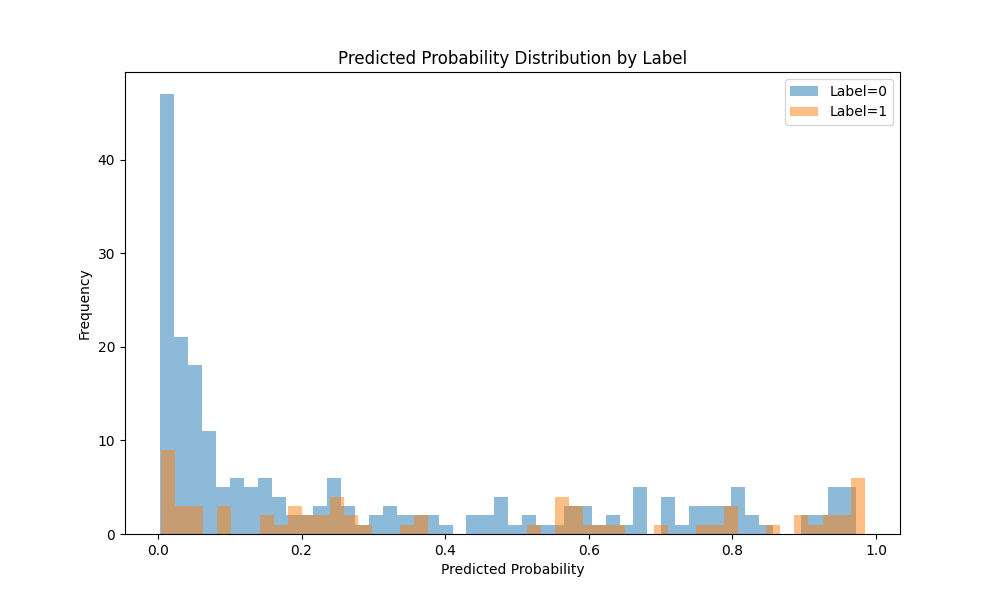
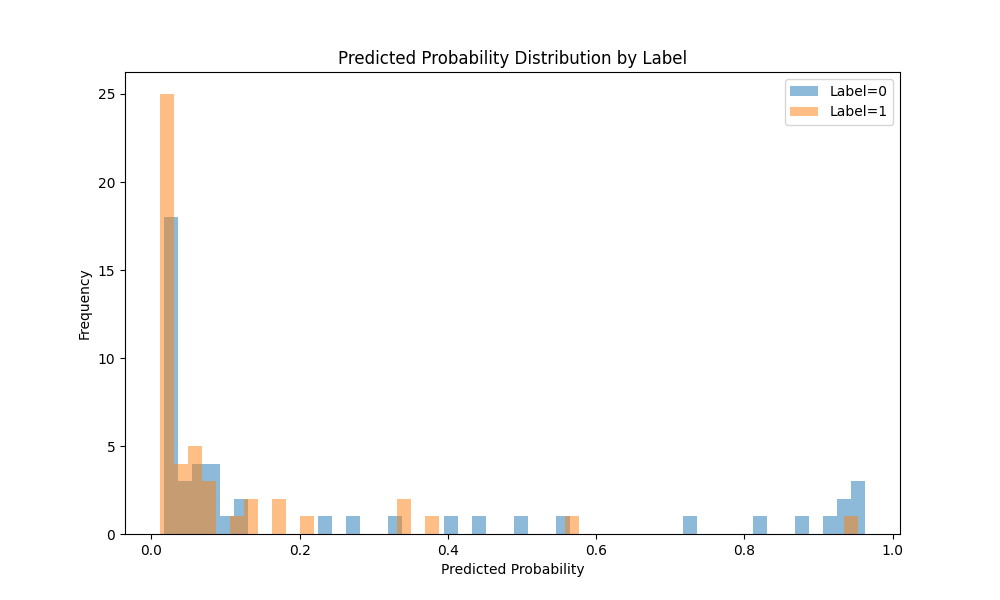
feat: one year is better, different stock needs different threshold

diff --git a/apps/cli_tool/features/modeling.py b/apps/cli_tool/features/modeling.py
@@ -12,7 +12,7 @@ from sklearn.metrics import (
 )
 
 def define_labels(data):
-    """Defines binary target labels (0: others, 1: significant rise) based on 75th percentile dynamic threshold over 5 days)"""
+    """Defines binary target labels (0: others, 1: significant rise) based on 75th percentile dynamic threshold over 3 days)"""
     print("Defining labels...")
     
     # Calculate future close price over 5 days
@@ -23,12 +23,12 @@ def define_labels(data):
     # Calculate dynamic threshold based on 75th percentile of past price changes
     # Shift Price_Change_5d by 5 days to ensure the rolling window only uses past data relative to the labeling point
     window_size = 60 # Example window size for dynamic percentiles
-    data['Upper_Bound'] = data['Price_Change_5d'].shift(5).rolling(window=window_size, closed='right').quantile(0.75)
+    data['Upper_Bound'] = data['Price_Change_5d'].shift(5).rolling(window=window_size, closed='right').quantile(0.6)
 
     # Define labels based on dynamic threshold
     data['Label'] = 0  # Default to others (combines neutral and drop)
     data.loc[data['Price_Change_5d'] >= data['Upper_Bound'], 'Label'] = 1  # Significant rise
-
+    
     # Drop rows with NaN labels
     
     data.dropna(inplace=True)
@@ -37,6 +37,7 @@ def define_labels(data):
     print(f'chg is {data["Price_Change_5d"].tail(20)}')
     print(f'label is {data["Label"].tail(20)}')
 
+    
     
     # Drop temporary columns
     data.drop(columns=['Future_Close', 'Price_Change_5d', 'Upper_Bound'], inplace=True)

diff --git a/apps/cli_tool/analyze_v2.py b/apps/cli_tool/analyze_v2.py
@@ -21,7 +21,7 @@ except ImportError:
     if not os.path.exists(DATA_DIR):
         os.makedirs(DATA_DIR)
 
-period = "2y"
+period = "1y"
 
 def get_data(ticker: str, p: Literal["6mo","1y", "2y", "5y", "10y", "ytd"]=period):
     """Fetch data using yfinance service"""
@@ -74,7 +74,6 @@ def main(ticker="SPY"):
         y_pred_probas.append(y_pred_proba_fold)
         y_tests.append(y_test)
 
-    # Evaluate with default threshold (0.5)
     # Aggregate results for threshold tuning and final evaluation
     all_y_test = pd.concat(y_tests)
     all_y_pred_proba = np.concatenate(y_pred_probas)
